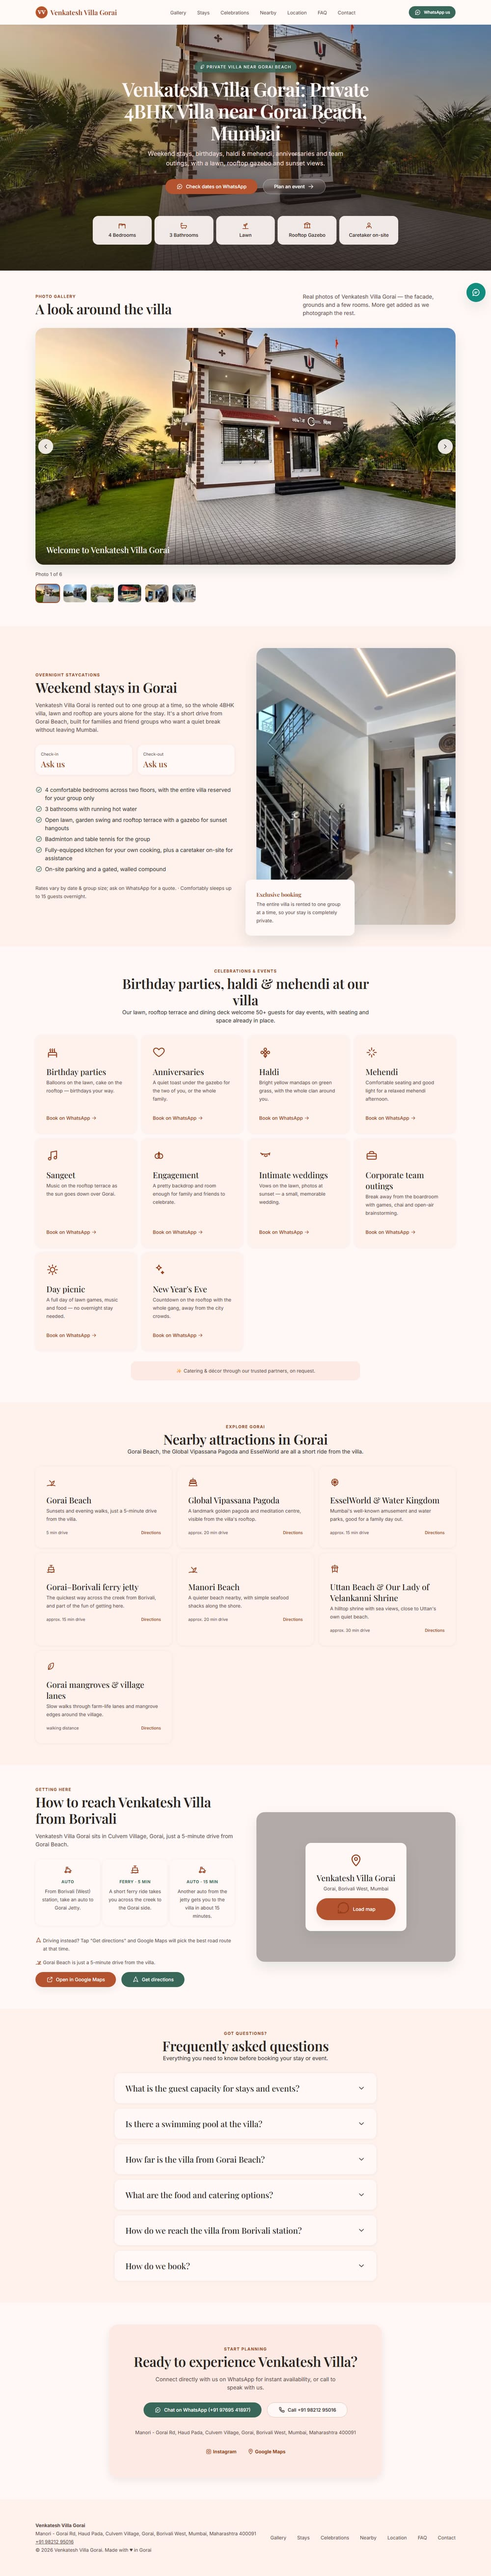
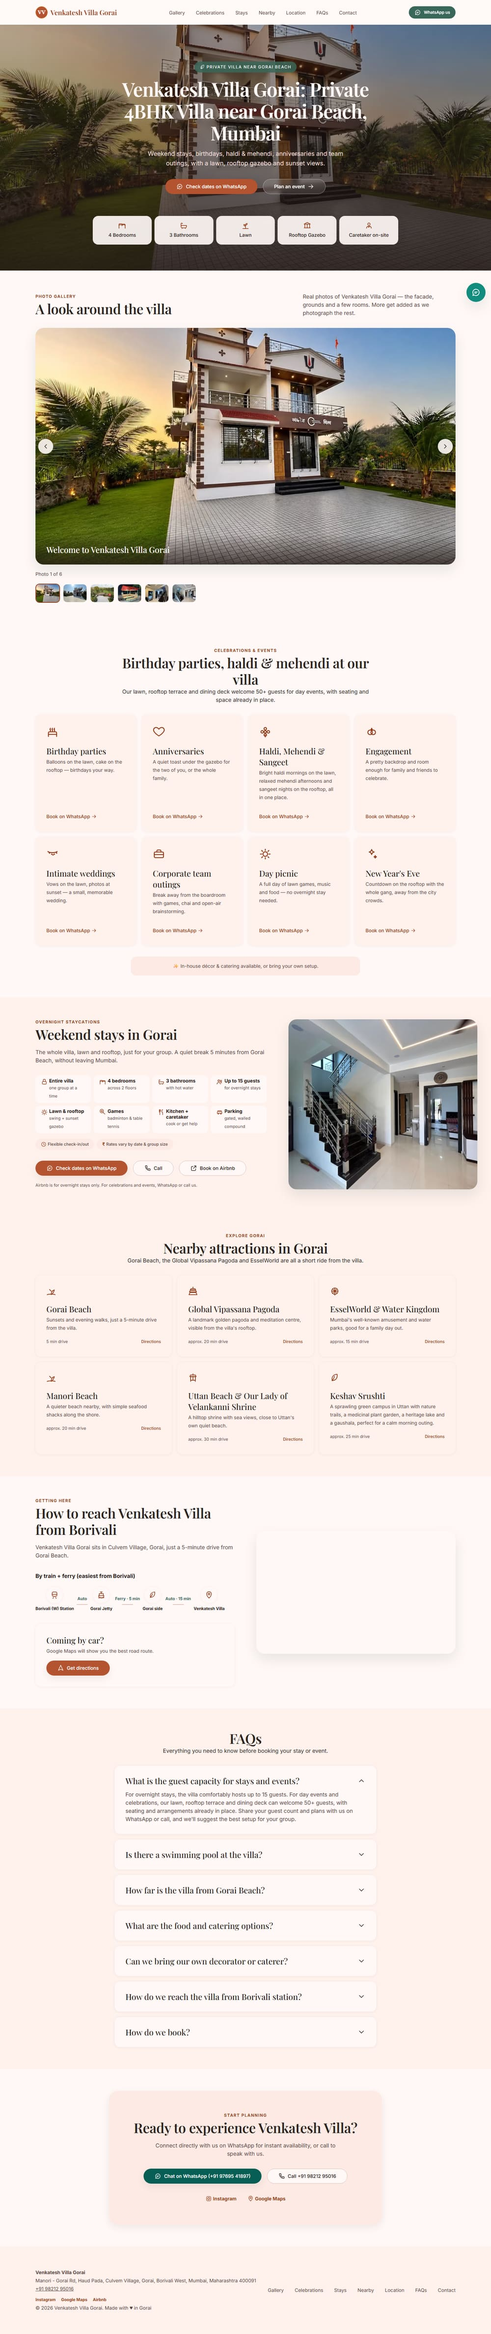
round2: update AGENTS.md, HANDOFF.md round 2 log, screenshots
AGENTS.md: reordered Section 3's page structure (Celebrations before
Stays), rewrote the Stays entry to the new compact icon-tile spec,
updated the Nearby attractions list (6 cards, mangroves removed),
updated the FAQ entry (heading text + exclusive-accordion
requirement), rewrote Section 3a for the Airbnb button (not link/card)
treatment, fixed two stale example references, added 2 new
Definition-of-Done checklist items.

HANDOFF.md: full "Change rounds -> Round 2" log, refreshed the
top-of-file current-state summary to match the new section order and
counts. Noted that the owner's referenced CHANGES_ROUND_1.md doesn't
exist -- Round 1 was logged in this file instead, flagged rather than
silently assumed.

design-references/review-round2/: Celebrations, Stays, Nearby, FAQs
at 390px and 1440px.

readme-assets/screenshot-desktop.jpg: regenerated against the current
build (the old one showed the pre-Round-2 section order).

Verified: npm run check clean (zero errors, zero broken links,
99 links scanned); Lighthouse mobile (indexable:true) Performance 96,
Accessibility 100, Best Practices 100, SEO 100 -- all four categories
clear the >=95 bar this round's "Done when" explicitly names.

diff --git a/AGENTS.md b/AGENTS.md
@@ -164,35 +164,42 @@ Rules:
 
 Use semantic HTML5: `<header>`, `<nav>`, `<main>`, `<section id="...">` each with its own `<h2>`, `<footer>`. Exactly **one `<h1>`**. Set `lang="en-IN"`.
 
-1. **Header (sticky, slim):** logo (SVG/PNG from `/src/assets/brand/`) + name, anchor nav (Gallery · Stays · Celebrations · Nearby · Location · Reviews · FAQ · Contact), and a primary button "WhatsApp us". On mobile, use a hamburger menu that is accessible (button with `aria-expanded`, focus trap, Esc closes).
+1. **Header (sticky, slim):** logo (SVG/PNG from `/src/assets/brand/`) + name, anchor nav (Gallery · Celebrations · Stays · Nearby · Location · Reviews · FAQs · Contact), and a primary button "WhatsApp us". On mobile, use a hamburger menu that is accessible (button with `aria-expanded`, focus trap, Esc closes). The sticky header's height must be compensated for on every in-page anchor jump (`scroll-padding-top` on `html`, or equivalent) so a section's heading never lands hidden underneath it.
 2. **Hero (`#home`):** the full-bleed first gallery image (or `hero: true` image) is the **LCP element**. Use `fetchpriority="high"`, no lazy-loading, and preload the right size. Overlay:
    - **H1:** `Venkatesh Villa Gorai: Private 4BHK Villa near Gorai Beach, Mumbai`
    - Sub-line: `Weekend stays, birthdays, haldi & mehendi, anniversaries and team outings, with a lawn, rooftop gazebo and sunset views.`
    - Two CTAs: **"Check dates on WhatsApp"** (stay message) and **"Plan an event"** (event message).
    - Trust chips: `4 Bedrooms · 3 Bathrooms · Lawn · Rooftop Gazebo · Caretaker on-site`.
 3. **Gallery carousel (`#gallery`):** admin-managed from `gallery.json` (Section 6). Accessible, swipeable, keyboard-operable, **no autoplay by default** (if autoplay is enabled in config: pause on hover/focus, include a visible Pause button, and respect `prefers-reduced-motion`). Show the caption under each slide. Add a thumbnail strip and a lightbox. **All slide `<img>` elements must be in the server-rendered HTML** (not injected by JS) with real `alt` text.
-4. **Stays (`#stays`):** overnight staycation for families and friend groups. Rooms and beds summary, what's included, check-in/out, house rules (link to accordion). If `showPrices` is true show "Starting from ₹X"; otherwise show "Rates vary by date & group size; ask on WhatsApp". An optional secondary Airbnb link belongs here too (see Section 3a).
-5. **Celebrations & events (`#celebrations`):** cards for Birthday parties · Anniversaries · Haldi, Mehendi & Sangeet (one merged card) · Engagement · Intimate weddings · Corporate team outings · Day picnic (one-day outing) · New Year's Eve. 8 cards total, 4 columns × 2 rows on desktop/laptop (≥1024px), 2 columns on tablet and mobile, equal card heights. Each card: one line, an icon (inline SVG), and a WhatsApp CTA with an event-specific pre-filled message. Add a note: "In-house décor & catering available, or bring your own setup."
-6. **Nearby attractions (`#nearby`):** cards from `attractions.json` with name, one line, approximate distance/time, and a "Directions" link (`https://www.google.com/maps/dir/?api=1&destination=<encoded name or lat,lng>`). 7 cards (Gorai Beach, Global Vipassana Pagoda, EsselWorld & Water Kingdom, Manori Beach, Uttan Beach & Our Lady of Velankanni Shrine, Keshav Srushti, Gorai mangroves & village lanes). Lay out in balanced rows (3-column grid; if a lone card is left in the final row, centre it rather than leaving it stranded on one side).
+4. **Celebrations & events (`#celebrations`):** cards for Birthday parties · Anniversaries · Haldi, Mehendi & Sangeet (one merged card) · Engagement · Intimate weddings · Corporate team outings · Day picnic (one-day outing) · New Year's Eve. 8 cards total, 4 columns × 2 rows on desktop/laptop (≥1024px), 2 columns on tablet and mobile, equal card heights. Each card: one line, an icon (inline SVG), and a WhatsApp CTA with an event-specific pre-filled message. Add a note: "In-house décor & catering available, or bring your own setup."
+5. **Stays (`#stays`):** compact and icon-led, understandable in 5 seconds — not a long paragraph. Comes **after** Celebrations, not before (overnight stays are the secondary use case for this villa; events/day-visits are the primary one). Layout: two columns on desktop (~55% content / ~45% photo, photo height matches the content column's height, max ~520px, object-fit:cover), photo stacked on top (16:9) on mobile — the same markup achieves both via CSS `order`, not duplicated markup. Content, top to bottom:
+   - Eyebrow + H2 (`Weekend stays in Gorai`)
+   - One short intro line (not a paragraph)
+   - An 8-tile icon feature grid (`<ul>`, icons `aria-hidden="true"`, visible text labels) — entire villa, 4 bedrooms, 3 bathrooms, up to 15 guests, lawn & rooftop, games, kitchen + caretaker, parking. 4 columns × 2 rows on desktop, 2 columns on mobile. Lighter/smaller than the Celebrations cards.
+   - Two small "good to know" chips (flexible check-in/out — or the real times once `site.json`'s `checkIn`/`checkOut` are both set — and a rates-vary note)
+   - Three buttons: **WhatsApp** (filled primary), **Call** (outline secondary), **Book on Airbnb** (outline tertiary — see Section 3a)
+   - Microcopy under the buttons steering celebrations/events to WhatsApp/call instead of Airbnb
+   - Keep the schema `amenityFeature` in sync with whatever the tiles say.
+6. **Nearby attractions (`#nearby`):** cards from `attractions.json` with name, one line, approximate distance/time, and a "Directions" link (`https://www.google.com/maps/dir/?api=1&destination=<encoded name or lat,lng>`). 6 cards (Gorai Beach, Global Vipassana Pagoda, EsselWorld & Water Kingdom, Manori Beach, Uttan Beach & Our Lady of Velankanni Shrine, Keshav Srushti). 3 columns × 2 rows on desktop, 2 columns on tablet, 1 column on mobile — 6 cards divides evenly into that grid, so there should never be an orphan card at this count; if the list length changes later and leaves one stranded in the final row, centre it rather than leaving it on one side.
 7. **Location & how to reach (`#location`):**
     - **Google Maps embed iframe, loaded directly** (not a click-to-load facade): `loading="lazy"` so it only fetches once scrolled near, fixed height (~360px desktop, ~280px mobile) so there's no layout shift, rounded corners matching the card style, `title` and `referrerpolicy="no-referrer-when-downgrade"` set.
     - A single **"Get directions"** primary button (`googleDirectionsUrl`). Do not duplicate it with a separate "Open in Google Maps" button — one clear action only.
     - **How to reach, shown as one connected journey** (not three separate unconnected boxes): heading "By train + ferry (easiest from Borivali)", a stepper (horizontal on desktop, vertical timeline on mobile) connecting Borivali (W) Station → Gorai Jetty → Gorai side → Venkatesh Villa, with the mode and time written on each connector (Auto / Ferry · 5 min / Auto · 15 min). Mark it up as an ordered list (`<ol>`) with the connector labels as visible text, not icon-only. Below it, a separate small "Coming by car?" block with one line ("Google Maps will show you the best road route") and the same Get directions button.
     - Facts: from Borivali station, auto → Gorai Jetty → 5-minute ferry → auto (~15 min) to the villa. Gorai Beach is a 5-minute drive from the villa (state this once — in the section intro, the Gorai Beach nearby-attraction card and the FAQ; do not repeat it a fourth time in this section).
 8. **Reviews (`#reviews`):** render real reviews from `reviews.json` with name, source (Google/Airbnb), month and text. Add a "Read more on Google" link and, after a stay, a "Leave us a Google review" link. **Do not add `AggregateRating`/`Review` schema for the business's own reviews**, because Google does not show self-serving review stars for LocalBusiness. Hide the section (and its nav link) if the array is empty. The villa's Google listing already has 4 genuine reviews (5.0). The owner may copy short excerpts into `reviews.json` with the reviewer's first name and a "View on Google" link to `googleMapsUrl`. Never invent or edit review text.
-9. **FAQ (`#faq`):** an accessible accordion (`<details>/<summary>`) from `faq.json`. Visible HTML is mandatory. See Section 7 for the schema decision.
+9. **FAQs (`#faq`):** H2 reads **"FAQs"**, no eyebrow label above it. An accessible accordion (`<details>/<summary>`) from `faq.json`. Visible HTML is mandatory. **Only one question open at a time** — give every `<details>` the same `name="faq"` attribute (current Chrome/Edge/Safari/Firefox enforce exclusivity from that alone, even with JS disabled); add a small JS `toggle`-event fallback that closes other open items, for older browsers. The first question is open by default. Opening an item must not leave its question hidden under the sticky header — correct the scroll position if needed, skipping the smooth animation under `prefers-reduced-motion`. See Section 7 for the schema decision.
 10. **Contact (`#contact`):** a card with WhatsApp as the filled **primary** button and Call as the secondary **outline** button (not the other way round — WhatsApp is the primary conversion channel), plus Instagram and Google Maps links. Do **not** repeat the full street address here — the footer already carries the crawlable NAP block; keep this card to the action buttons and quick links only.
-11. **Footer:** NAP again (as text, not an image), quick links, an "Airbnb" text link alongside Instagram and Google Maps (when `airbnbUrl` is set), © year, "Made with ♥ in Gorai".
+11. **Footer:** NAP again (as text, not an image), quick links (same order as the header nav), an "Airbnb" text link alongside Instagram and Google Maps (when `airbnbUrl` is set), © year, "Made with ♥ in Gorai".
 12. **Floating WhatsApp button:** bottom-right on all viewports, 56px, high contrast, with `aria-label="Chat on WhatsApp"`. It must not cover content or the browser UI on iOS/Android (respect safe-area insets).
 
 ### 3a. Airbnb: secondary channel for stays only
 
-WhatsApp and Call remain the primary booking channels everywhere on the site. Airbnb is a secondary, lower-emphasis option, shown **only in the Stays section**, directly below the main WhatsApp/Call buttons, because Airbnb's own terms don't allow booking parties/events through a listing — only overnight stays.
+WhatsApp and Call remain the primary booking channels everywhere on the site. Airbnb is a secondary, lower-emphasis option, shown **only in the Stays section**, as the third of its three buttons (WhatsApp filled primary, Call outline secondary, Airbnb outline tertiary), because Airbnb's own terms don't allow booking parties/events through a listing — only overnight stays.
 
 - `site.json` carries `airbnbUrl`: the clean listing URL only (strip date/guest/share-id query parameters the owner's copied link may contain).
-- Render it as a small card or outline link, visually weaker than the primary WhatsApp button: label "Prefer booking online? View our Airbnb listing →", a one-line meta description, and a microcopy note that celebrations/events should go through WhatsApp/call instead.
-- **Never** use Airbnb's official embed widget/script (`airbnb_jssdk`) — it's heavy third-party JS, adds Airbnb's own pricing/branding, causes layout shift, and needs extra CSP exceptions. Build a plain static link/card instead; an existing gallery photo may be used as a thumbnail.
-- Airbnb does **not** appear in the hero, Celebrations, the floating button, or the header nav — stays-only.
+- Render it as a real **button** (not a text link), outline/ghost style, visually lighter than the filled WhatsApp button. Use a home icon or a small external-link icon — **never the Airbnb logo** (trademark). Give it `aria-label="Book Venkatesh Villa Gorai on Airbnb (opens in a new tab)"` in addition to its visible label, since "Book on Airbnb" alone doesn't convey that it opens a new tab. A short microcopy line below the three buttons (not attached to the button itself) notes that Airbnb is for overnight stays only and celebrations/events should go through WhatsApp/call.
+- **Never** use Airbnb's official embed widget/script (`airbnb_jssdk`) — it's heavy third-party JS, adds Airbnb's own pricing/branding, causes layout shift, and needs extra CSP exceptions. Build a plain button/link instead.
+- Airbnb does **not** appear in the hero, Celebrations, the floating button, or the header nav — stays-only (plus the footer link, see item 11 above).
 - Add the clean URL to the villa's JSON-LD `sameAs` array (alongside Instagram and the Google Maps link) when set.
 - Link with `target="_blank" rel="noopener"` (no `nofollow` — it's the owner's own listing).
 - When `ga4Id` is set, clicking it fires a GA4 event `airbnb_click` with a `cta_location` param, kept separate from the `generate_lead` event used for WhatsApp/Call.
@@ -230,9 +237,10 @@ Caption format in the carousel: **Name** · Floor: line. When a file name matche
 - Manori Beach: a quieter beach and seafood shacks
 - Uttan Beach & Our Lady of Velankanni Shrine (Uttan): hilltop shrine with sea views
 - Keshav Srushti (Uttan, Bhayandar West): a sprawling green campus with nature trails, a medicinal plant garden, a heritage lake and a gaushala
-- Gorai mangroves & village lanes: slow walks and farm-life vibes
 
-(The Gorai–Borivali ferry jetty is **not** its own attraction card — it duplicates the "How to reach" section's stepper and isn't an attraction in its own right.)
+That's 6 cards, in that order — enough to fill a 3×2 grid evenly on desktop with no orphan. Two were deliberately left out, neither as a drive-by cut:
+- The Gorai–Borivali ferry jetty is **not** its own attraction card — it duplicates the "How to reach" section's stepper and isn't an attraction in its own right.
+- "Gorai mangroves & village lanes" was removed in Round 2 (owner decision) to bring the count to a clean 6 for the 3-column grid.
 
 **Tone:** warm, simple, Mumbai-family voice, English with light Hinglish where natural ("chai", "jhoola"). No exaggeration.
 
@@ -347,7 +355,7 @@ src/_data/gallery.json   ← order, captions, alt text, show/hide
   - `Birthday parties, haldi & mehendi at our villa`
   - `Nearby attractions in Gorai`
   - `How to reach Venkatesh Villa from Borivali`
-  - `Frequently asked questions`
+  - `FAQs` (the actual H2 text, per Section 3 item 9 — short on purpose, the SEO phrase-matching here matters less for a heading this generic)
 - Body copy of **600–1,000 visible words** in total across sections. Mention each target phrase **once or twice, naturally**. No keyword stuffing, no hidden text, no blocks of city or area names.
 - Mention nearby place names where they are genuinely useful (Gorai Beach, Borivali West, Manori, Uttan, Mira–Bhayandar, Global Vipassana Pagoda, EsselWorld). This builds local relevance.
 - Include the alternate spellings "Vyankatesh / व्यंकटेश" **once**, in a natural sentence (e.g. "Venkatesh Villa Gorai (व्यंकटेश व्हिला)").
@@ -516,9 +524,11 @@ It must include these sections:
 - [ ] The map iframe is marked `loading="lazy"` and isn't fetched until scrolled near (check the Network tab).
 - [ ] The word "pool" appears **only** in FAQ answer #2 and its matching FAQPage markup (grep the output: title, meta, alt text, headings and the villa schema must be clean).
 - [ ] The removed sections (Spaces grid, Amenities grid, Food section) are **not** on the page.
-- [ ] Celebrations shows exactly 8 cards (4×2 on desktop) in the order given in Section 3; Nearby shows exactly 7 cards with no stranded single card on desktop.
+- [ ] Celebrations shows exactly 8 cards (4×2 on desktop) in the order given in Section 3; Stays comes after Celebrations, not before; Nearby shows exactly 6 cards in a 3×2 grid on desktop.
 - [ ] The "how to reach" stepper reads as one connected journey (not three separate boxes) on both 390px and 1440px.
-- [ ] Every address link opens `googleMapsUrl`; every "Get directions" opens `googleDirectionsUrl`; the Call button uses +91 98212 95016; WhatsApp uses +91 97695 41897; the Airbnb link (Stays section + footer) uses the clean `airbnbUrl` with no embed script loaded.
+- [ ] Every address link opens `googleMapsUrl`; every "Get directions" opens `googleDirectionsUrl`; the Call button uses +91 98212 95016; WhatsApp uses +91 97695 41897; the Airbnb link (Stays section's "Book on Airbnb" button + footer link) uses the clean `airbnbUrl` with no embed script loaded.
+- [ ] Only one FAQ item is open at a time (test by clicking a second question — the first must close), and this still holds with JavaScript disabled.
+- [ ] The Stays section is compact: roughly one screen height or less at 1440px, and visibly shorter than a long-paragraph layout at 390px, with no overlapping/overlaid card.
 - [ ] The page builds and works under a github.io sub-path and at the root.
 
 When finished, reply with: what you built, how to run it, the Lighthouse scores, the list of every remaining `TODO_OWNER` value, and the next three steps for the owner.

diff --git a/HANDOFF.md b/HANDOFF.md
@@ -1,5 +1,5 @@
 # HANDOFF: Venkatesh Villa Gorai website
-Last updated: 2026-10-24 by Claude Code (Round 1 owner review applied)
+Last updated: 2026-10-24 by Claude Code (Round 2 owner review applied)
 
 ## Build steps
 - [x] 1 Scaffold & config
@@ -23,13 +23,16 @@ not a code task.
 **Everything works.** `npm run build` produces a complete `_site/`:
 header/nav (desktop + accessible mobile drawer), hero, photo gallery
 (accessible carousel + lightbox + thumbnails, all real `<img>`s in the
-server-rendered HTML), stays (with a secondary Airbnb option), 8
-celebrations cards (4x2 on desktop), 7 nearby-attraction cards,
-location (a connected "how to reach" journey stepper + a
-directly-embedded lazy-loaded map), reviews (hidden while
-`reviews.json` is empty), FAQ accordion, contact, footer (NAP +
-Instagram/Maps/Airbnb), and a floating WhatsApp button. 404 page
-included. See "Change rounds → Round 1" below for everything changed
+server-rendered HTML), 8 celebrations cards (4x2 on desktop), a
+compact icon-tile Stays section (with a "Book on Airbnb" button), 6
+nearby-attraction cards (3x2 on desktop), location (a connected "how
+to reach" journey stepper + a directly-embedded lazy-loaded map),
+reviews (hidden while `reviews.json` is empty), an exclusive-open FAQ
+accordion ("FAQs", first question open by default), contact, footer
+(NAP + Instagram/Maps/Airbnb), and a floating WhatsApp button. Page
+order: Hero → Gallery → Celebrations → Stays → Nearby → Location →
+Reviews → FAQ → Contact. 404 page included. See "Change rounds" below
+for everything changed in owner review rounds 1 and 2
 since the initial build.
 
 Verified with real tooling, not just a read-through:
@@ -265,6 +268,87 @@ still zero errors/zero broken links; Lighthouse mobile unchanged at
 Accessibility 100 / Best Practices 100 / SEO 100 (indexable:true) /
 Performance 94 — no regression from the new CSS (stepper, Airbnb
 card, print block).
+
+### Round 2 (2026-10-24): owner review of Round 1's build
+
+Note: the owner's instructions referenced reading a `CHANGES_ROUND_1.md`
+file first. That file doesn't exist — Round 1 was logged directly in
+this file (the section above) instead, so that's what was actually
+read. Worth flagging in case the owner expected a separate file; easy
+to split out later if wanted, nothing was lost either way.
+
+5 numbered changes, each committed separately:
+
+1. **Section order**: moved Stays to after Celebrations. New order:
+   Hero → Gallery → Celebrations → Stays → Nearby → Location →
+   Reviews → FAQ → Contact. Both the header nav and footer links read
+   from the same `copy.json` `nav` array, so reordering it once fixed
+   both automatically — no separate footer edit needed. While
+   verifying every anchor still scrolled correctly, found a
+   **pre-existing gap, not something this reorder caused**: there was
+   no `scroll-padding-top` anywhere, so every `#anchor` jump (nav
+   links, the FAQ's "How to reach" link from Round 1) had always been
+   landing with the target section's heading partly hidden under the
+   72px sticky header. Added `scroll-padding-top: 88px` to `html`;
+   re-tested all 7 nav links, all land with the section's top at or
+   below the header's bottom edge now.
+2. **Nearby attractions**: removed "Gorai mangroves & village lanes".
+   6 cards now fit the existing 3-column desktop grid exactly (3+3,
+   no orphan), so no CSS change was needed there — the round1
+   last-child-centering rule simply doesn't match at this count and
+   was left in place as a harmless safety net for if the list grows
+   again later.
+3. **Stays redesign** (the big one): replaced the paragraph + bullet
+   list + price note + check-in box + overlapping "Exclusive booking"
+   card with an intro line, an 8-tile icon grid (4x2 desktop / 2-col
+   mobile, `<ul>` with `aria-hidden` icons), 2 "good to know" chips,
+   and 3 buttons (WhatsApp filled, Call outline, new **Book on
+   Airbnb** outline button replacing Round 1's separate Airbnb
+   link/card). Photo/content layout uses CSS `order` so one markup
+   structure naturally gives photo-on-top on mobile and
+   content-left/photo-right on desktop, with the photo stretching to
+   match the content column's height (grid `align-items:stretch`,
+   capped at `max-height:520px`). Added a `"stays": true` flag to
+   `gallery.json` (new `staysSlide` filter) so the section's photo is
+   an explicit choice, not an implicit "whichever slide happens to be
+   last" convention. Added 5 new icons (lock, users, racket, utensils,
+   car) to `icons.njk`. Measured result: section height dropped to
+   626px at 1440px (target was "roughly one screen, ~800px") and is
+   visibly much shorter on mobile. No `amenityFeature` schema change
+   needed — every amenity word from the old bullet list is still
+   literally present in a tile label or sub-label, just reformatted.
+4. **FAQ heading**: removed the "Got questions?" eyebrow, H2 now
+   reads "FAQs". Nav/footer label was already changed to "FAQs" in
+   change 1 (same array).
+5. **FAQ exclusive accordion**: `name="faq"` on every `<details>` —
+   tested this is enough **on its own, with JavaScript fully
+   disabled**, to get native exclusive-open behavior in this
+   Chromium build (confirmed: click a second question, the first
+   closes, zero script ran). The JS in `main.js` is purely the
+   documented fallback (closes other open items on `toggle`) plus the
+   "don't leave the opened question hidden under the sticky header"
+   scroll correction, which native HTML has no way to do on its own.
+   First question defaults open via a Nunjucks `{% if loop.first %}`
+   check, not a separate data flag.
+
+Also updated `AGENTS.md`: Section 3's page-structure list reordered
+and the Stays entry fully rewritten to the new compact spec, the
+Nearby attractions list and card-count math, the FAQ entry (heading
+text, exclusivity requirement), Section 3a rewritten for the new
+button-not-link Airbnb treatment, two stale example references
+("Frequently asked questions" H2 example, "exactly 7 cards" checklist
+line), and two new Definition-of-Done checklist items (FAQ
+exclusivity, Stays compactness).
+
+Screenshots of Celebrations/Stays/Nearby/FAQs at 390px and 1440px are
+in `design-references/review-round2/`.
+
+Verified after Round 2: `npm run check` still zero errors/zero broken
+links (99 links). Lighthouse mobile (indexable:true): **Performance
+96, Accessibility 100, Best Practices 100, SEO 100** — all four
+categories clear the >=95 bar the Round 2 brief asked for explicitly
+(Round 1's brief only required it informally; this time it's a named
+"Done when" checkbox, and it's met).
 
 ## Known issues / TODO (all owner-side, not code)
 
